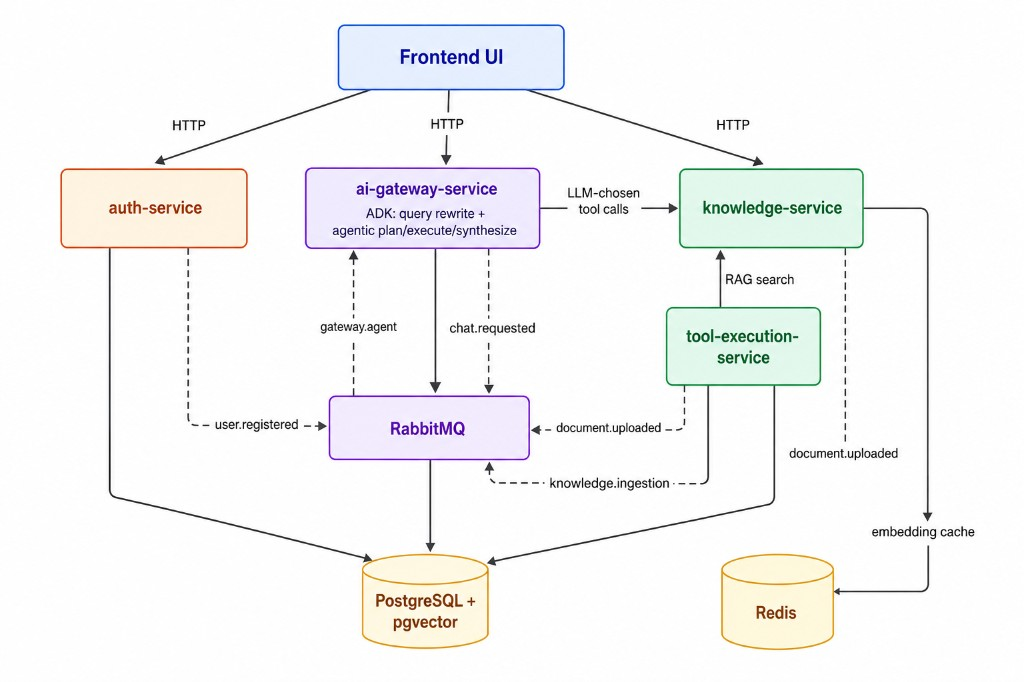
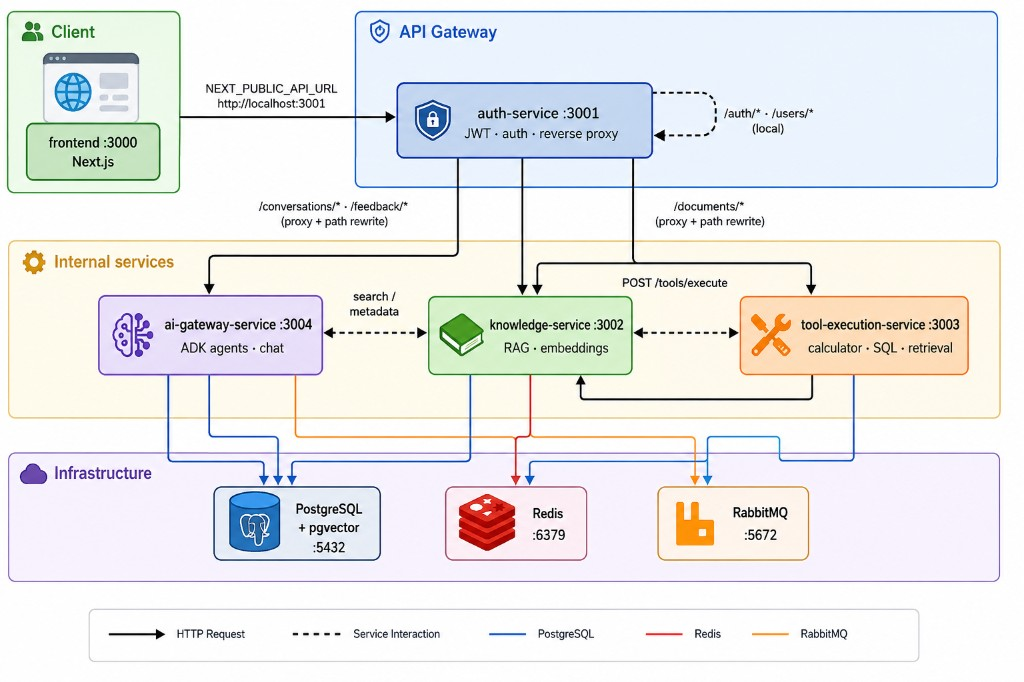
modified the readme

diff --git a/README.md b/README.md
@@ -22,8 +22,6 @@ The system is built as **microservices** (Express + Prisma + PostgreSQL) with a 
 12. [Quick start](#quick-start)
 13. [CI](#ci)
 14. [Configuration](#configuration)
-15. [Future work (recommended order)](#future-work-recommended-order)
-16. [Related docs](#related-docs)
 
 ---
 
@@ -33,30 +31,74 @@ Five application services share one PostgreSQL database (with **pgvector**), plu
 
 ![System architecture](docs/images/architecture.png)
 
-### API gateway (auth-service)
-
-The **frontend** talks to a **single backend URL** — **auth-service** (port 3001). Auth-service acts as an **API gateway**: it handles authentication locally and **reverse-proxies** all other HTTP traffic to internal services.
+The **frontend** uses a single backend URL (`NEXT_PUBLIC_API_URL=http://localhost:3001`). **auth-service** is the API gateway: it handles auth locally and reverse-proxies everything else to internal services.
 
 ```mermaid
-flowchart LR
-  FE[frontend :3000] --> AUTH[auth-service :3001]
-  AUTH -->|/auth, /users| AUTH
-  AUTH -->|/conversations, /feedback| GW[ai-gateway-service :3004]
-  AUTH -->|/documents| KS[knowledge-service :3002]
-  GW --> TOOLS[tool-execution-service :3003]
-  GW --> KS
+%%{init: {'theme':'base','flowchart': {'curve':'linear','nodeSpacing': 50,'rankSpacing': 70},'themeVariables': {'fontFamily':'Arial','fontSize':'14px','lineColor':'#4b5563','clusterBkg':'#f8fafc','clusterBorder':'#94a3b8'}}}%%
+flowchart TB
+  subgraph client["Client"]
+    FE["frontend :3000<br/>Next.js"]
+  end
+
+  subgraph gateway["API Gateway"]
+    AUTH["auth-service :3001<br/>JWT · auth · reverse proxy"]
+  end
+
+  subgraph services["Internal Services"]
+    GW["ai-gateway-service :3004<br/>ADK agents · chat"]
+    KS["knowledge-service :3002<br/>RAG · embeddings"]
+    TOOLS["tool-execution-service :3003<br/>calculator · SQL · retrieval"]
+  end
+
+  subgraph infra["Infrastructure"]
+    PG[("PostgreSQL + pgvector :5432")]
+    REDIS[("Redis :6379")]
+    RMQ[("RabbitMQ :5672")]
+  end
+
+  FE -->|"NEXT_PUBLIC_API_URL"| AUTH
+
+  AUTH -.->|"/auth/* · /users/*<br/>(local)"| AUTH
+  AUTH -->|"/conversations/* · /feedback/*<br/>(proxy + path rewrite)"| GW
+  AUTH -->|"/documents/*<br/>(proxy + path rewrite)"| KS
+
+  GW -->|"POST /tools/execute"| TOOLS
+  GW <-->|"search / metadata"| KS
+  TOOLS -->|"RAG search"| KS
+
+  AUTH --> PG
+  AUTH --> RMQ
+  GW --> PG
+  GW --> RMQ
+  KS --> PG
+  KS --> REDIS
+  KS --> RMQ
+  TOOLS --> PG
+
+  classDef client fill:#dcfce7,stroke:#16a34a,color:#14532d,stroke-width:2px;
+  classDef gateway fill:#dbeafe,stroke:#2563eb,color:#1e3a8a,stroke-width:2px;
+  classDef svc fill:#fef9c3,stroke:#ca8a04,color:#713f12,stroke-width:2px;
+  classDef tools fill:#ffedd5,stroke:#ea580c,color:#7c2d12,stroke-width:2px;
+  classDef storage fill:#f3e8ff,stroke:#9333ea,color:#581c87,stroke-width:2px;
+
+  class FE client;
+  class AUTH gateway;
+  class GW,KS svc;
+  class TOOLS tools;
+  class PG,REDIS,RMQ storage;
 ```
 
-| Path prefix | Handled by | Proxied to |
-|-------------|------------|------------|
-| `/auth/*` | auth-service | — (local) |
-| `/users/*` | auth-service | — (local) |
-| `/conversations/*`, `/feedback/*` | auth-service | ai-gateway-service |
-| `/documents/*` | auth-service | knowledge-service |
+### API gateway routing
 
-Proxied routes require a valid JWT at the gateway edge; downstream services still validate the token for defense in depth. **tool-execution-service** is not exposed to the browser — only ai-gateway-service calls it server-to-server.
+| Path prefix | auth-service action | Upstream target |
+|-------------|---------------------|-----------------|
+| `/auth/*` | Local — register, login, refresh | — |
+| `/users/*` | Local — user management | — |
+| `/conversations/*`, `/feedback/*` | Proxy (JWT required) + path rewrite | ai-gateway-service :3004 |
+| `/documents/*` | Proxy (JWT required) + path rewrite | knowledge-service :3002 |
+| `/health` | Local health check | — |
 
-Frontend env: `NEXT_PUBLIC_API_URL=http://localhost:3001` (replaces separate gateway/knowledge URLs).
+Proxied routes require a valid JWT at the gateway edge; downstream services still validate the token for defense in depth. **tool-execution-service** is not exposed to the browser — only ai-gateway-service calls it server-to-server via `POST /tools/execute`.
 
 ### Data & messaging flows
 
@@ -66,6 +108,22 @@ Frontend env: `NEXT_PUBLIC_API_URL=http://localhost:3001` (replaces separate gat
 | Chat message | HTTP → RabbitMQ `chat.requested` → worker | Non-blocking agent pipeline; UI polls `GET /agent-runs/:id` |
 | User registration | RabbitMQ `user.registered` | Event hook for downstream consumers |
 | Tool execution | Gateway → HTTP `POST /tools/execute` | Centralized audit + validation |
+
+### Why not cross-service events?
+
+RabbitMQ is used as an **in-service job queue** (publish and consume inside the same service), not as the main way services talk to each other. Cross-service communication uses **HTTP**.
+
+**Same-service queues** — `chat.requested` and `document.uploaded` decouple the HTTP handler from long work (agent pipeline, document ingestion). The API returns immediately; a worker in the same process picks up the job. No other service needs to subscribe.
+
+**HTTP between services** — When the agent runs a tool, it needs the result **before** the next step (plan → execute → synthesize). That is request–response, not fire-and-forget. Putting gateway → tool-execution on a queue would require request–reply (correlation IDs, reply queues, timeouts) on top of RabbitMQ — more complex than a direct `POST /tools/execute` with the user's JWT.
+
+**When cross-service events would fit** — One event, many listeners with no reply needed (e.g. `user.registered` for analytics or email). Auth already publishes that; nothing consumes it in this repo yet.
+
+| Need | Pattern used |
+|------|----------------|
+| Background job in one service | Same-service RabbitMQ queue |
+| Answer required in the same flow | HTTP (sync) |
+| One event, optional many subscribers | Cross-service RabbitMQ (reserved for hooks like `user.registered`) |
 
 ### Database ownership (logical)
 
@@ -84,7 +142,64 @@ All services connect to the same Postgres instance in development; in production
 
 The **ai-gateway-service** runs a **Google ADK** agentic pipeline. The **orchestration shell** is a fixed `SequentialAgent` (plan → execute → synthesize), but **each request is LLM-planned**: todo count, tool choice, and tool-call sequence are decided at runtime — not hardcoded.
 
+Chat messages are handled **asynchronously**: the HTTP handler publishes `chat.requested` to RabbitMQ and returns `queued`; a worker in the same service consumes the job and runs the agent pipeline. The UI polls `GET /agent-runs/:id` (via auth-service proxy) until the run completes.
+
 ![Agent orchestration](docs/images/agent-orchestration.png)
+
+```mermaid
+%%{init: {'theme':'base','flowchart': {'curve':'linear','nodeSpacing': 55,'rankSpacing': 75},'themeVariables': {'fontFamily':'Arial','fontSize':'14px','lineColor':'#4b5563','clusterBkg':'#f8fafc','clusterBorder':'#94a3b8'}}}%%
+flowchart TB
+  UI[Frontend UI]
+  AUTH[auth-service]
+  API[ai-gateway-service]
+  RMQ[(RabbitMQ chat queue)]
+
+  subgraph pre [Pre-workflow]
+    QR[QueryRewriterAgent]
+  end
+
+  subgraph workflow ["SequentialAgent — plan → execute → synthesize"]
+    PA[PlanAgent]
+    TE["TodoExecutorAgent<br/>knowledge_retrieval · sql_query · calculator<br/>update_todo_status"]
+    SA[SynthesisAgent]
+    JUDGE[Answer Judge]
+  end
+
+  TS[tool-execution-service]
+  KS[knowledge-service]
+  DB[(PostgreSQL)]
+
+  UI -->|POST /conversations/:id/messages| AUTH
+  AUTH -->|proxy| API
+  API -->|Publish chat.requested| RMQ
+  RMQ -->|Worker consumes job| QR
+  QR --> PA
+  PA --> TE
+  TE -->|POST /tools/execute| TS
+  TS -->|RAG search| KS
+  KS --> DB
+  TS -->|sql_query / write results| DB
+  TE -->|update_todo_status| DB
+  TE --> SA
+  SA --> JUDGE
+  JUDGE -->|Final response| API
+  API -->|GET /agent-runs/:id| AUTH
+  AUTH -->|Run status + answer| UI
+
+  classDef ui fill:#dbeafe,stroke:#2563eb,color:#1e3a8a,stroke-width:2px;
+  classDef auth fill:#ffedd5,stroke:#ea580c,color:#7c2d12,stroke-width:2px;
+  classDef gateway fill:#ede9fe,stroke:#7c3aed,color:#4c1d95,stroke-width:2px;
+  classDef agents fill:#fce7f3,stroke:#db2777,color:#831843,stroke-width:2px;
+  classDef services fill:#dcfce7,stroke:#16a34a,color:#14532d,stroke-width:2px;
+  classDef storage fill:#fef3c7,stroke:#d97706,color:#78350f,stroke-width:2px;
+
+  class UI ui;
+  class AUTH auth;
+  class API,RMQ gateway;
+  class QR,PA,TE,SA,JUDGE agents;
+  class TS,KS services;
+  class DB storage;
+```
 
 ### Agents
 
@@ -157,7 +272,7 @@ Every tool execution is **audited** in `tool_executions` (input, output, duratio
 
 | Service | Middleware | User scoping |
 |---------|------------|--------------|
-| auth-service | Public `/auth/*`; protected `/users/*` | N/A |
+| auth-service | Public `/auth/*`; protected `/users/*`; JWT gate on proxied `/conversations/*`, `/feedback/*`, `/documents/*` | N/A |
 | knowledge-service | `authenticate` on all `/documents/*` | Documents filtered by `userId` |
 | tool-execution-service | `authenticate` on all `/tools/*` | SQL + knowledge calls scoped to JWT user |
 | ai-gateway-service | `authenticate` on all routes | Conversations and agent runs owned by `userId` |
@@ -298,7 +413,7 @@ Principles:
 5. Answer judge — 1× Gemini call  
 6. Tools — 0–N × OpenAI (SQL) + embedding calls (search)
 
-Optimize by: caching knowledge catalog, reducing todos for simple queries, routing simple questions to a lighter path (future work), and tuning `GUARDRAIL_JUDGE_ENABLED`.
+Optimize by: caching knowledge catalog, reducing todos for simple queries, and tuning `GUARDRAIL_JUDGE_ENABLED`.
 
 ---
 
@@ -345,13 +460,13 @@ Extend tracing there for full end-to-end cost and latency dashboards.
 1. **Development** — Langfuse project per developer or shared `development` environment tag.  
 2. **Staging** — Enable judge + trace sampling; add Langfuse **LLM-as-a-Judge** evaluators on sampled traces.  
 3. **Production** — Alert on error spans, p95 `chat.agent-pipeline` latency, tool failure rate, judge `wrong` verdict rate.  
-4. **Feedback loop** — Correlate stored thumbs-up/down ratings with Langfuse traces (see [User feedback](#user-feedback-thumbs-up--down); future: store `traceId` on message metadata).
+4. **Feedback loop** — Correlate stored thumbs-up/down ratings with Langfuse traces (see [User feedback](#user-feedback-thumbs-up--down)).
 
 ---
 
 ## User feedback (thumbs up / down)
 
-Users can rate each assistant reply with **thumbs up** or **thumbs down** directly in the chat UI. Ratings are persisted in the gateway database for future **prompt fine-tuning**, **quality monitoring**, and **eval datasets**.
+Users can rate each assistant reply with **thumbs up** or **thumbs down** directly in the chat UI. Ratings are persisted in the gateway database.
 
 ### How it works
 
@@ -367,7 +482,7 @@ Users can rate each assistant reply with **thumbs up** or **thumbs down** direct
 | `POST` | `/feedback` | Submit or update thumbs up/down on an assistant message |
 | `GET` | `/feedback` | List feedback records (paginated; admin review) |
 
-### Data captured (for future use)
+### Data captured
 
 Each feedback row includes:
 
@@ -377,13 +492,6 @@ Each feedback row includes:
 | `assistantAnswer` | Full assistant response that was rated |
 | `rating` | `UP` or `DOWN` |
 | `conversationId`, message IDs | Link back to full agent run / plan / tools in message metadata |
-
-### Planned uses
-
-- **Monitoring** — Track downvote rate over time; slice by conversation, user, or date in the admin UI.
-- **Prompt iteration** — Build golden sets from highly-rated answers; inspect downvoted pairs to revise agent prompts.
-- **Fine-tuning / eval** — Export `(userQuery, assistantAnswer, rating)` as training or eval data once volume is sufficient.
-- **Langfuse correlation** — Join feedback with agent traces (planned: store `traceId` on assistant message metadata) to compare user satisfaction vs automated judge scores.
 
 Implementation: `services/ai-gateway-service/src/services/feedback.service.ts`, `services/frontend/src/components/chat/message-feedback.tsx`.
 
